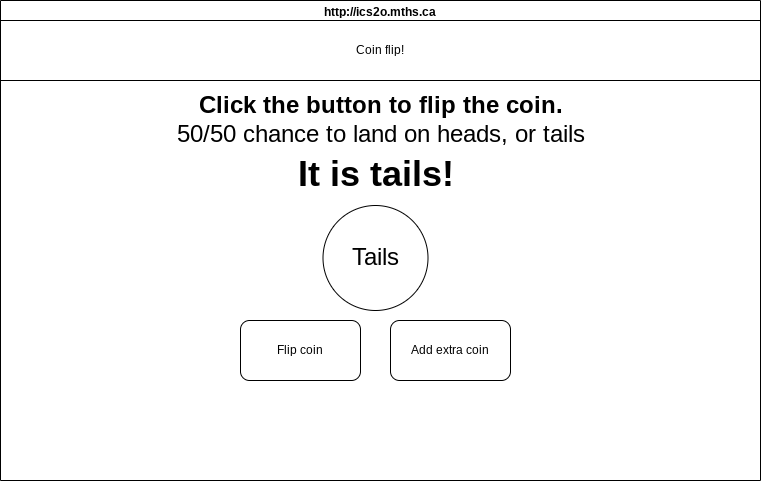
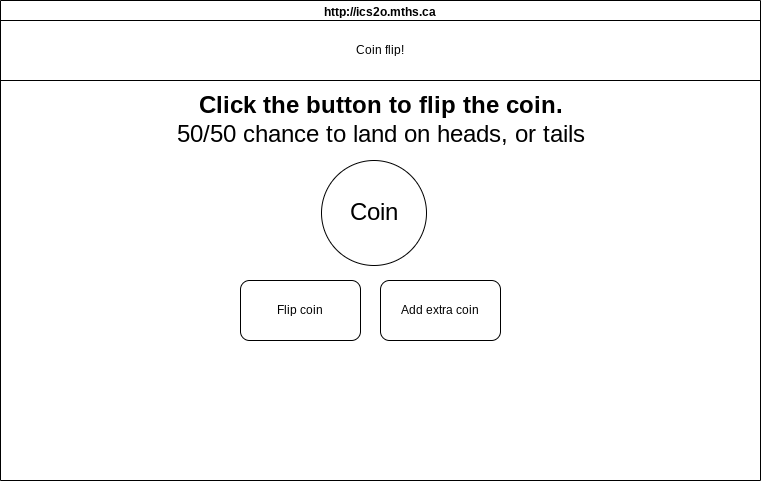
updated

diff --git a/index.html b/index.html
@@ -6,13 +6,33 @@
     <meta name="keywords" content="mths, ics2o" />
     <meta name="author" content="Yuri G" />
     <meta name="viewport" content="width=device-width, intial-scale=1.0" />
-    <link rel="stylesheet" href="./css/style.css">
-    <link rel="stylesheet" href="https://fonts.googleapis.com/icon?family=Material+Icons">
-    <link rel="stylesheet" href="https://code.getmdl.io/1.3.0/material.deep_purple-purple.min.css" />
-    <link rel="apple-touch-icon" sizes="180x180" href="./images/apple-touch-icon">
-    <link rel="icon" type="image/png" sizes="32x32" href="./images/favicon-32x32.png">
-    <link rel="icon" type="image/png" sizes="16x16" href="./images/favicon-16x16.png">
-    <link rel="manifest" href="/site.webmanifest">
+    <link rel="stylesheet" href="./css/style.css" />
+    <link
+      rel="stylesheet"
+      href="https://fonts.googleapis.com/icon?family=Material+Icons"
+    />
+    <link
+      rel="stylesheet"
+      href="https://code.getmdl.io/1.3.0/material.deep_purple-purple.min.css"
+    />
+    <link
+      rel="apple-touch-icon"
+      sizes="180x180"
+      href="./images/apple-touch-icon"
+    />
+    <link
+      rel="icon"
+      type="image/png"
+      sizes="32x32"
+      href="./images/favicon-32x32.png"
+    />
+    <link
+      rel="icon"
+      type="image/png"
+      sizes="16x16"
+      href="./images/favicon-16x16.png"
+    />
+    <link rel="manifest" href="/site.webmanifest" />
     <title>Coin flip!</title>
   </head>
   <body>
@@ -27,13 +47,16 @@
       <main class="mdl-layout__content">
         <h1><b>Click the button to flip the coin.</b></h1>
         <h2><i>50/50 chance for it to land on heads or tails!</i></h2>
-        <br>
-        <p>coin here (placeholder)</p>
-        <!--Colored raised button-->
-        <button class="mdl-button mdl-js-button mdl-button--raised mdl-js-ripple-effect mdl-button--accent" onclick="coinFlip()">Flip coin
-        </button>
-        <br>
-        <div id="answer">
+        <br />
+        <div id="coin"></div>
+          <!--Colored raised button-->
+          <button
+            class="mdl-button mdl-js-button mdl-button--raised mdl-js-ripple-effect mdl-button--accent"
+            onclick="coinFlip()"
+          >
+            Flip coin
+          </button>
+          <br />
           <div id="coin-results"></div>
         </div>
       </main>

diff --git a/css/style.css b/css/style.css
@@ -1,0 +1,33 @@
+/* Created by: Yuri G
+* Created on: June 2023
+* This file contains the CSS for index.html
+*/
+
+/* Due to error in MDL : https://github.com/google/material-design-lite/issues/5281\
+*/
+
+.mdl-ripple {
+  background: #000;
+  opacity: 0.001;
+}
+
+.mdl-layout__header-row {
+  justify-content: center;
+  padding: 0;
+}
+
+.mdl-layout__content {
+  padding-left: 15px;
+  padding-right: 15px;
+  padding-top: 15px;
+}
+
+.page-content {
+  color: black;
+  font-family: Arial, Helvetica, sans-serif;
+  font-size: 1.25rem;
+}
+
+body {
+  background-color: white;
+}
